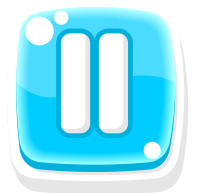
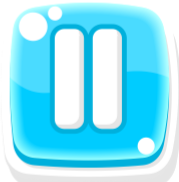
合并暂停功能

diff --git a/src/Main.java b/src/Main.java
@@ -1,7 +1,15 @@
 import java.awt.*;
 import java.awt.event.MouseEvent;
 import java.awt.event.KeyEvent;
+import java.awt.event.WindowAdapter;
+import java.awt.event.WindowEvent;
 import javax.swing.*;
+import java.awt.image.BufferedImage;
+import javax.imageio.ImageIO;
+import java.io.File;
+import java.io.IOException;
+import java.awt.geom.RoundRectangle2D;
+import java.awt.LinearGradientPaint;
 
 public class Main extends GameEngine implements StartMenu.StartMenuListener {
     private Marbles hexGrid;
@@ -14,6 +22,13 @@ public class Main extends GameEngine implements StartMenu.StartMenuListener {
     private boolean gameStarted = false;
     private boolean frozen = false;
     private double deadline;
+
+    // 暂停按钮相关
+    private BufferedImage pauseIcon;
+    private Rectangle pauseButtonBounds;
+    private boolean pauseHover = false;
+    private boolean pausePressed = false;
+    private boolean gamePaused = false;
 
     public static void main(String[] args) {
         SwingUtilities.invokeLater(() -> {
@@ -73,6 +88,19 @@ public class Main extends GameEngine implements StartMenu.StartMenuListener {
 
         Insets insets = mFrame.getInsets();
         mFrame.setSize(mWidth + insets.left + insets.right, mHeight + insets.top + insets.bottom);
+
+        // 加载pause.png精灵图
+        try {
+            File pauseFile = new File("resources/pause.png");
+            if (pauseFile.exists()) {
+                pauseIcon = ImageIO.read(pauseFile);
+            }
+        } catch (IOException e) {
+            pauseIcon = null;
+        }
+
+        // 暂停按钮位置：左侧中间偏下，发射台上方
+        pauseButtonBounds = new Rectangle(30, 600, 60, 60);
     }
 
     @Override
@@ -89,10 +117,6 @@ public class Main extends GameEngine implements StartMenu.StartMenuListener {
     @Override
     public void init() {
         SwingUtilities.invokeLater(() -> {
-            mFrame.setLayout(new BorderLayout());
-            mPanel.setPreferredSize(new Dimension(mWidth, mHeight));
-            mFrame.add(mPanel, BorderLayout.CENTER);
-            mFrame.revalidate();
             initMarbleGrid();
         });
     }
@@ -111,7 +135,7 @@ public class Main extends GameEngine implements StartMenu.StartMenuListener {
 
     @Override
     public void update(double dt) {
-        if (frozen) return;
+        if (frozen || gamePaused) return;
         if (hexGrid != null) hexGrid.update(dt);
         if (launchMarble != null) launchMarble.update(dt);
         checkCollisions();
@@ -211,18 +235,165 @@ public class Main extends GameEngine implements StartMenu.StartMenuListener {
             launchPad.drawCannon(g2, mouseX, mouseY);
         }
         if (launchMarble != null) launchMarble.draw(g2);
+
+        // 最后绘制暂停按钮，确保在最上层
+        drawPauseButton(g2);
+    }
+
+    // 图片完全占据按钮，无任何内边距
+    private void drawPauseButton(Graphics2D g2) {
+        int x = pauseButtonBounds.x;
+        int y = pauseButtonBounds.y;
+        int w = pauseButtonBounds.width;
+        int h = pauseButtonBounds.height;
+
+        // 绘制按钮背景
+        RoundRectangle2D bg = new RoundRectangle2D.Double(x, y, w, h, 15, 15);
+
+        if (pausePressed) {
+            Color c1 = new Color(50, 140, 255, 200);
+            Color c2 = new Color(30, 110, 255, 200);
+            LinearGradientPaint grad = new LinearGradientPaint(x, y, x, y + h,
+                    new float[]{0, 1}, new Color[]{c1, c2});
+            g2.setPaint(grad);
+        } else if (pauseHover) {
+            Color c1 = new Color(100, 190, 255, 180);
+            Color c2 = new Color(50, 140, 255, 180);
+            LinearGradientPaint grad = new LinearGradientPaint(x, y, x, y + h,
+                    new float[]{0, 1}, new Color[]{c1, c2});
+            g2.setPaint(grad);
+        } else {
+            g2.setColor(new Color(255, 255, 255, 180));
+        }
+        g2.fill(bg);
+
+        // 蓝色边框
+        g2.setStroke(new BasicStroke(2f));
+        g2.setColor(new Color(70, 150, 255, 200));
+        g2.draw(bg);
+
+        // 绘制pause.png精灵图：完全填满按钮
+        if (pauseIcon != null) {
+            g2.drawImage(pauseIcon, x, y, w, h, null);
+        } else {
+            // 备用：蓝色暂停符号
+            g2.setColor(new Color(70, 150, 255));
+            g2.fillRect(x + 18, y + 15, 8, 30);
+            g2.fillRect(x + 34, y + 15, 8, 30);
+        }
+    }
+
+    public void openPauseMenu() {
+        gamePaused = true;
+
+        JDialog pauseDialog = new JDialog(SwingUtilities.getWindowAncestor(mPanel), "Pause Menu", Dialog.ModalityType.APPLICATION_MODAL);
+        pauseDialog.setSize(350, 380);
+        pauseDialog.setLocationRelativeTo(mPanel);
+        pauseDialog.setResizable(false);
+        pauseDialog.setDefaultCloseOperation(JDialog.DISPOSE_ON_CLOSE);
+
+        // 点击右上角X关闭后继续游戏
+        pauseDialog.addWindowListener(new WindowAdapter() {
+            @Override
+            public void windowClosing(WindowEvent e) {
+                gamePaused = false;
+                mPanel.repaint();
+            }
+        });
+
+        JPanel dialogMainPanel = new JPanel(new BorderLayout(10, 20));
+        dialogMainPanel.setBorder(BorderFactory.createEmptyBorder(25, 25, 25, 25));
+        dialogMainPanel.setBackground(new Color(240, 248, 255));
+
+        JLabel title = new JLabel("PAUSED", SwingConstants.CENTER);
+        title.setFont(new Font("Arial Black", Font.BOLD, 28));
+        title.setForeground(new Color(70, 150, 255));
+        dialogMainPanel.add(title, BorderLayout.NORTH);
+
+        JPanel btnPanel = new JPanel(new GridLayout(4, 1, 0, 20));
+        btnPanel.setBackground(new Color(240, 248, 255));
+
+        // 1. Resume
+        JButton btnResume = StartMenu.createStyledButtonStatic("Resume", true, true, "begin.png");
+        btnResume.addActionListener(e -> {
+            gamePaused = false;
+            pauseDialog.dispose();
+        });
+
+        // 2. How to play
+        JButton btnHelp = StartMenu.createStyledButtonStatic("How to play", true, false, "help.png");
+        btnHelp.addActionListener(e -> {
+            JOptionPane.showMessageDialog(pauseDialog,
+                    "游戏玩法：\n1. 点击/空格发射弹珠\n2. 3个同色相连即消除\n3. 不要让弹珠碰到底部红线",
+                    "How to play", JOptionPane.INFORMATION_MESSAGE);
+        });
+
+        // 3. Sound on/off
+        JButton btnSound = StartMenu.createStyledButtonStatic(StartMenu.isSoundOnStatic ? "Sound on" : "Sound off", true, false, "sound.png");
+        btnSound.addActionListener(e -> {
+            StartMenu.isSoundOnStatic = !StartMenu.isSoundOnStatic;
+            btnSound.setText(StartMenu.isSoundOnStatic ? "Sound on" : "Sound off");
+        });
+
+        // 4. Quit：完全重置游戏并返回主菜单
+        JButton btnQuit = StartMenu.createStyledButtonStatic("Quit", true, true, "exit.png");
+        btnQuit.addActionListener(e -> {
+            pauseDialog.dispose();
+            // 切换到主菜单
+            cardLayout.show(mainPanel, "menu");
+            // 重置游戏状态
+            gamePaused = false;
+            frozen = false;
+            gameStarted = false;
+            // 清空游戏对象，释放资源
+            hexGrid = null;
+            launchMarble = null;
+            // 恢复默认光标
+            mPanel.setCursor(new Cursor(Cursor.DEFAULT_CURSOR));
+        });
+
+        btnPanel.add(btnResume);
+        btnPanel.add(btnHelp);
+        btnPanel.add(btnSound);
+        btnPanel.add(btnQuit);
+
+        dialogMainPanel.add(btnPanel, BorderLayout.CENTER);
+        pauseDialog.setContentPane(dialogMainPanel);
+        pauseDialog.setVisible(true);
+
+        pausePressed = false;
+        mPanel.repaint();
     }
 
     @Override
     public void mouseMoved(MouseEvent event) {
-        if (frozen) return;
+        if (frozen || gamePaused) return;
         mouseX = event.getX();
         mouseY = event.getY();
+
+        boolean oldHover = pauseHover;
+        pauseHover = pauseButtonBounds.contains(event.getPoint());
+        if (pauseHover) {
+            mPanel.setCursor(new Cursor(Cursor.HAND_CURSOR));
+        } else {
+            mPanel.setCursor(new Cursor(Cursor.DEFAULT_CURSOR));
+        }
+        if (oldHover != pauseHover)
+            mPanel.repaint();
     }
 
     @Override
     public void mousePressed(MouseEvent event) {
         if (frozen) return;
+
+        if (pauseButtonBounds.contains(event.getPoint())) {
+            pausePressed = true;
+            mPanel.repaint();
+            openPauseMenu();
+            return;
+        }
+
+        if (gamePaused) return;
         if (launchMarble != null && !launchMarble.isLaunched()) {
             launchMarble.reset(launchPad.cannon.x, launchPad.cannon.y);
             launchMarble.launch(event.getX(), event.getY());
@@ -230,8 +401,14 @@ public class Main extends GameEngine implements StartMenu.StartMenuListener {
     }
 
     @Override
+    public void mouseReleased(MouseEvent event) {
+        pausePressed = false;
+        mPanel.repaint();
+    }
+
+    @Override
     public void keyPressed(KeyEvent event) {
-        if (frozen) return;
+        if (frozen || gamePaused) return;
         if (event.getKeyCode() == KeyEvent.VK_SPACE && launchMarble != null && !launchMarble.isLaunched()) {
             launchMarble.reset(launchPad.cannon.x, launchPad.cannon.y);
             launchMarble.launch(mouseX > 0 ? mouseX : launchPad.cannon.x + 100,

diff --git a/src/StartMenu.java b/src/StartMenu.java
@@ -24,6 +24,7 @@ public class StartMenu extends JPanel {
     private boolean startPressed = false; // 开始按钮按下状态
     private boolean settingPressed = false; // 设置按钮按下状态
     private boolean isSoundOn = true; // 声音开关状态
+    public static boolean isSoundOnStatic = true; // 静态，给暂停菜单使用
 
     private final int BTN_WIDTH = 180;
     private final int BTN_HEIGHT = 70;
@@ -499,6 +500,64 @@ public class StartMenu extends JPanel {
         button.setFocusPainted(false);
         button.setCursor(new Cursor(Cursor.HAND_CURSOR));
 
+        return button;
+    }
+
+    // ====== 静态按钮方法，给 Main 暂停菜单共用 ======
+    public static JButton createStyledButtonStatic(String text, boolean hasIcon, boolean isResumeOrQuit, String iconName) {
+        JButton button = new JButton(text) {
+            @Override
+            protected void paintComponent(Graphics g) {
+                Graphics2D g2d = (Graphics2D) g.create();
+                g2d.setRenderingHint(RenderingHints.KEY_ANTIALIASING, RenderingHints.VALUE_ANTIALIAS_ON);
+
+                int width = getWidth();
+                int height = getHeight();
+
+                Color c1 = getModel().isPressed() ? new Color(50, 140, 255) :
+                        getModel().isRollover() ? new Color(100, 190, 255) : new Color(70, 150, 255);
+                Color c2 = getModel().isPressed() ? new Color(30, 110, 255) :
+                        getModel().isRollover() ? new Color(50, 140, 255) : new Color(30, 110, 255);
+
+                LinearGradientPaint grad = new LinearGradientPaint(0, 0, 0, height,
+                        new float[]{0, 1}, new Color[]{c1, c2});
+                g2d.setPaint(grad);
+                g2d.fillRoundRect(0, 0, width, height, 25, 25);
+
+                g2d.setStroke(new BasicStroke(2f));
+                g2d.setColor(Color.WHITE);
+                g2d.drawRoundRect(0, 0, width - 1, height - 1, 25, 25);
+
+                g2d.setColor(Color.WHITE);
+                g2d.setFont(new Font("Arial", Font.BOLD, 18));
+                FontMetrics fm = g2d.getFontMetrics();
+                String btnText = getText();
+                int textWidth = fm.stringWidth(btnText);
+                int textY = (height + fm.getAscent() - fm.getDescent()) / 2;
+                int textX = (width - textWidth) / 2;
+
+                if (hasIcon) {
+                    int iconSize = 32;
+                    int iconX = 15;
+                    int iconY = (height - iconSize) / 2;
+                    try {
+                        BufferedImage icon = ImageIO.read(new File("resources/" + iconName));
+                        if (icon != null) {
+                            g2d.drawImage(icon, iconX, iconY, iconSize, iconSize, null);
+                        }
+                    } catch (Exception ex) {}
+                }
+
+                g2d.drawString(btnText, textX, textY);
+                g2d.dispose();
+            }
+        };
+
+        button.setPreferredSize(new Dimension(250, 55));
+        button.setContentAreaFilled(false);
+        button.setBorderPainted(false);
+        button.setFocusPainted(false);
+        button.setCursor(new Cursor(Cursor.HAND_CURSOR));
         return button;
     }
 }
